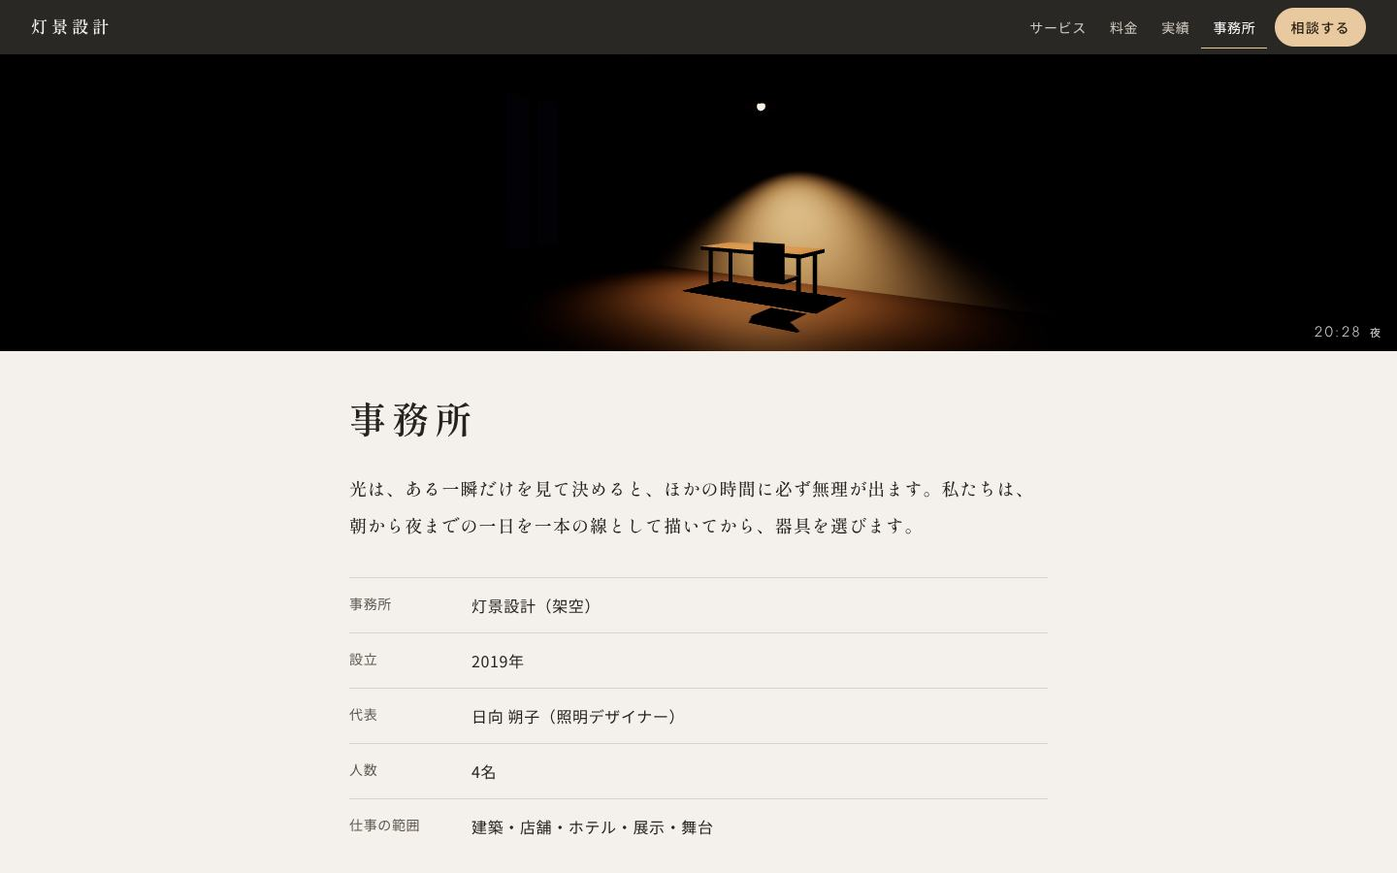
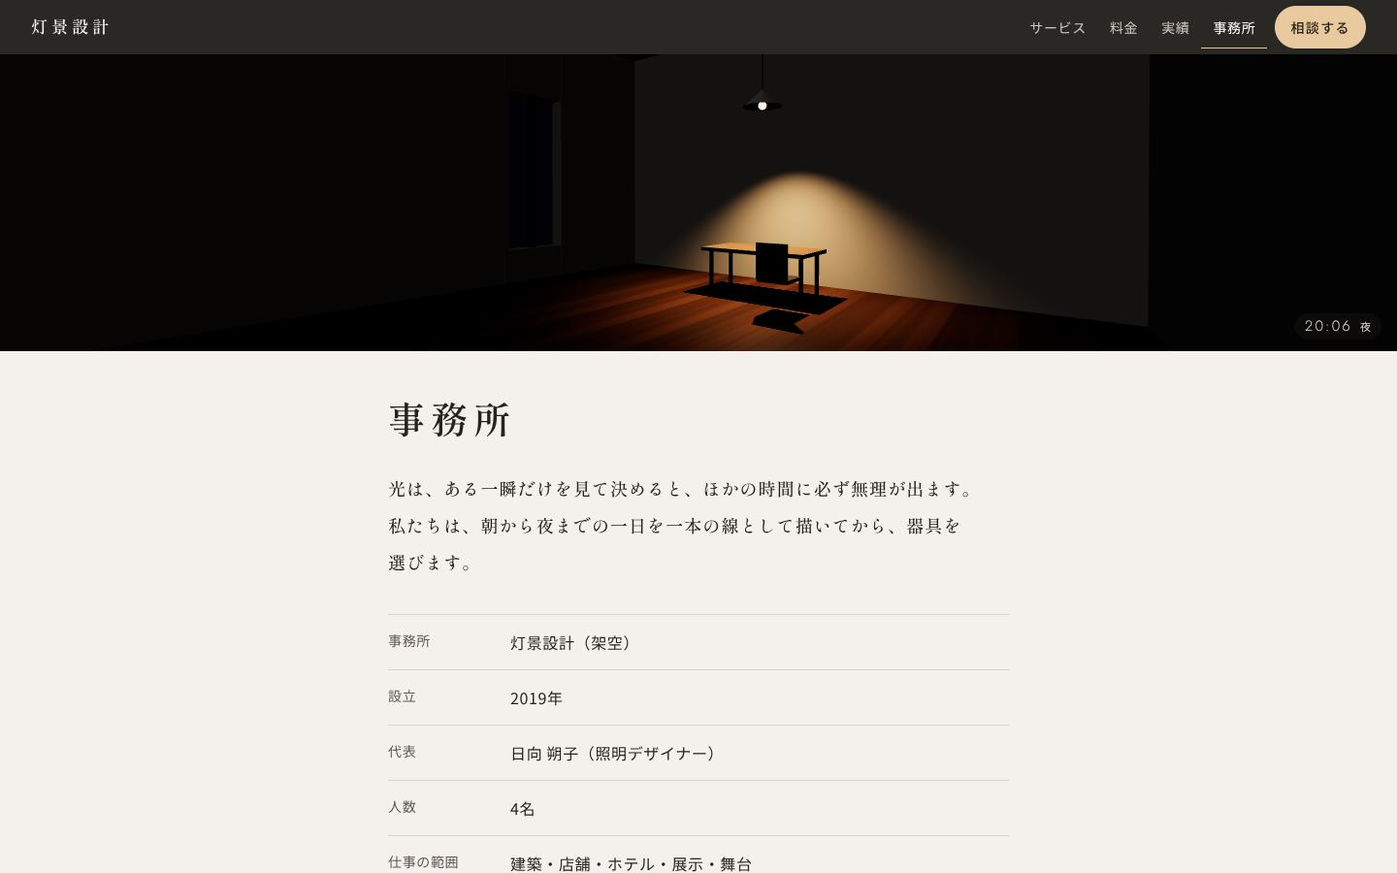
P010：審査1回目の指摘を反映（facts にない「2営業日」を削除、壁の継ぎ目と影の範囲、夜の壁の光、木目の床と光の筋、映り込みを時刻で落とす、日の出と夕方を遅く流すトップの時刻送り、サービスの各項目へ直接、時計の下敷き、フォームの aria）
Claude-Session: https://claude.ai/code/session_01BwmUGTgfPEj1Tu5124aDtq

diff --git a/studio/projects/P010-brand/site/app.js b/studio/projects/P010-brand/site/app.js
@@ -3,10 +3,10 @@ import { F } from './data.js';
 const $ = id => document.getElementById(id);
 const el = (t, c, x) => { const e = document.createElement(t); if (c) e.className = c; if (x != null) e.textContent = x; return e; };
 const reduce = matchMedia('(prefers-reduced-motion: reduce)').matches;
-$('logo').textContent = F.name; $('kind').textContent = `${F.kind}　${F.en}`; $('h-top').textContent = F.tagline; $('lead').textContent = F.lead;
+$('logo').textContent = F.name; $('kind').append(F.kind, el('span', 'en', F.en)); $('h-top').textContent = F.tagline; $('lead').textContent = F.lead;
 $('fname').textContent = `${F.name}　${F.kind}`; $('discl').textContent = F.disclosure;
 for (const s of F.services) {
-  const li = el('li'), a = el('a'); a.href = `#/services`; a.dataset.s = s.id; a.append(el('b', null, s.name), el('span', null, '詳しく')); li.append(a); $('svc-mini').append(li);
+  const li = el('li'), a = el('a'); a.href = `#/services/${s.id}`; a.append(el('b', null, s.name), el('span', null, '詳しく')); li.append(a); $('svc-mini').append(li);
   const d = el('article', 'svc'); d.id = `svc-${s.id}`; const ol = el('ol', 'steps'); for (const t of s.steps) ol.append(el('li', null, t)); d.append(el('h2', null, s.name), el('p', null, s.text), ol); $('svc').append(d);
 }
 for (const p of F.prices) { const li = el('li'), row = el('div', 'row'), pr = el('span', 'p', p.price); pr.append(el('small', null, p.unit)); row.append(el('b', null, p.name), pr); li.append(row, el('p', null, p.note)); $('price').append(li); }
@@ -21,7 +21,7 @@ $('form').addEventListener('submit', e => {
   for (const [id, label] of [['f-name', 'お名前'], ['f-mail', 'メールアドレス'], ['f-body', '内容']]) { const x = $(id), ng = !x.value.trim() || (id === 'f-mail' && !/^[^@\s]+@[^@\s]+\.[^@\s]+$/.test(x.value)); x.setAttribute('aria-invalid', String(ng)); if (ng) bad.push([id, label]); }
   $('f-err').textContent = bad.length ? `${bad.map(b => b[1]).join('・')}を確かめてください` : ''; $('f-msg').textContent = '';
   if (bad.length) { $(bad[0][0]).focus(); return; }
-  $('f-msg').textContent = '見本のため送信していません。実際のサイトでは、この内容が事務所に届きます。';
+  $('f-msg').textContent = '見本のため送信していません。実際のサイトでは、この内容が事務所に届きます。'; $('f-msg').focus();
 });
 
 // ページ（#/top・#/services・#/price・#/works・#/about・#/contact）。各ページの部屋の時刻
@@ -29,11 +29,13 @@ const PAGES = { top: ['トップ', null], services: ['サービス', 9.5], price
 let page = null, onPage = () => {};
 function route(first) {
   const m = location.hash.match(/^#\/(\w+)/), p = m && PAGES[m[1]] ? m[1] : 'top';
-  if (p === page) return; page = p; document.body.dataset.page = p;
+  const sub = location.hash.split('/')[2];
+  if (p === page) { if (sub) document.getElementById(`svc-${sub}`)?.scrollIntoView({ behavior: reduce ? 'instant' : 'smooth' }); return; } page = p; document.body.dataset.page = p;
   document.querySelectorAll('.page').forEach(s => { const on = s.dataset.page === p; s.hidden = !on; s.classList.toggle('enter', on && !first); });
   document.querySelectorAll('[data-p]').forEach(a => a.dataset.p === p ? a.setAttribute('aria-current', 'page') : a.removeAttribute('aria-current'));
   document.title = p === 'top' ? `${F.name}｜${F.kind}（架空の見本）` : `${PAGES[p][0]}｜${F.name}（架空の見本）`;
   if (!first) { scrollTo(0, 0); document.querySelector(`.page[data-page="${p}"] h1`).focus({ preventScroll: true }); }
+  if (sub && document.getElementById(`svc-${sub}`)) setTimeout(() => document.getElementById(`svc-${sub}`).scrollIntoView({ behavior: reduce ? 'instant' : 'smooth' }), 120);   // サービスの各項目へ直接（2タップ目で目的の内容に届く）
   onPage(p);
 }
 addEventListener('hashchange', () => route(false)); route(true);
@@ -44,22 +46,27 @@ addEventListener('hashchange', () => route(false)); route(true);
   const r = new THREE.WebGLRenderer({ canvas: cv, antialias: true }); r.setPixelRatio(Math.min(innerWidth < 700 ? 1.5 : 2, devicePixelRatio));
   r.shadowMap.enabled = true; r.shadowMap.type = THREE.PCFSoftShadowMap; r.toneMapping = THREE.ACESFilmicToneMapping; r.toneMappingExposure = 1.2;
   const scene = new THREE.Scene(), cam = new THREE.PerspectiveCamera(38, 1, .1, 60);
+  try { const { RoomEnvironment } = await import('three/addons/environments/RoomEnvironment.js'); scene.environment = new THREE.PMREMGenerator(r).fromScene(new RoomEnvironment(), .04).texture; } catch {}
   const mat = (c, ro) => new THREE.MeshStandardMaterial({ color: c, roughness: ro });
   const add = (g, m, x, y, z) => { const o = new THREE.Mesh(g, m); o.position.set(x, y, z); o.castShadow = o.receiveShadow = true; scene.add(o); return o; };
   // 部屋：奥の壁と床、左の壁に縦長の窓
-  const plaster = mat(0xd9d2c7, .95), wood = mat(0x6b5442, .6);
+  const plaster = mat(0xd9d2c7, .92), wood = mat(0x6b5442, .35);
+  // 床の木目（板の継ぎ目と色むら）をキャンバスで描く
+  const wc = document.createElement('canvas'); wc.width = 512; wc.height = 512; const g = wc.getContext('2d');
+  for (let i = 0; i < 16; i++) { const v = 150 + Math.random() * 50; g.fillStyle = `rgb(${v},${v * .8 | 0},${v * .62 | 0})`; g.fillRect(i * 32, 0, 32, 512); g.fillStyle = 'rgba(30,20,10,.35)'; g.fillRect(i * 32, 0, 1, 512); for (let k = 0; k < 40; k++) { g.fillStyle = `rgba(60,40,20,${Math.random() * .12})`; g.fillRect(i * 32 + Math.random() * 32, 0, 1, 512); } }
+  const wt = new THREE.CanvasTexture(wc); wt.colorSpace = THREE.SRGBColorSpace; wt.wrapS = wt.wrapT = THREE.RepeatWrapping; wt.repeat.set(3, 3); wood.map = wt; wood.color.set(0x9a8068);
   add(new THREE.BoxGeometry(12, 5.2, .2), plaster, 1, 2.5, -3);
   add(new THREE.BoxGeometry(.2, 5.2, 12), plaster, 5.6, 2.5, 2.5);   // 右の壁（カメラの背後まで部屋を閉じる）
   add(new THREE.BoxGeometry(12, 5.2, .2), plaster, 1, 2.5, 8.4);
   add(new THREE.BoxGeometry(12, .1, 12), wood, 1, -.05, 2.5);
   // 左の壁（窓の穴を残して4枚で）
   const wx = -3.5, wz0 = -3, wz1 = 4;
-  add(new THREE.BoxGeometry(.2, 5, 2.2), plaster, wx, 2.5, -1.9);   // 窓の奥側
-  add(new THREE.BoxGeometry(.2, 5.2, 8.0), plaster, wx, 2.5, 4.4);    // 窓の手前側
-  add(new THREE.BoxGeometry(.2, .6, 1.2), plaster, wx, .3, -.2);     // 窓の下
-  add(new THREE.BoxGeometry(.2, 1.4, 1.2), plaster, wx, 4.3, -.2);   // 窓の上
+  add(new THREE.BoxGeometry(.3, 5.4, 2.26), plaster, wx, 2.5, -1.92);   // 窓の奥側（隣の板と少し重ねて、継ぎ目から光を漏らさない）
+  add(new THREE.BoxGeometry(.3, 5.4, 8.06), plaster, wx, 2.5, 4.37);    // 窓の手前側
+  add(new THREE.BoxGeometry(.3, .62, 1.24), plaster, wx, .3, -.2);     // 窓の下
+  add(new THREE.BoxGeometry(.3, 1.42, 1.24), plaster, wx, 4.3, -.2);   // 窓の上
   add(new THREE.BoxGeometry(.24, 3.0, .05), mat(0x3a332c, .5), wx, 2.1, -.2);   // 窓の縦の桟
-  add(new THREE.BoxGeometry(12, .2, 12), plaster, 1, 5.1, 2.5);        // 天井
+  add(new THREE.BoxGeometry(12.4, .3, 12.4), plaster, 1, 5.1, 2.6);        // 天井
   // 机・椅子・ペンダント
   add(new THREE.BoxGeometry(1.8, .06, .9), mat(0x8a6a4e, .5), .9, .74, -1.6); for (const [x, z] of [[.1, -1.9], [1.7, -1.9], [.1, -1.3], [1.7, -1.3]]) add(new THREE.BoxGeometry(.05, .72, .05), mat(0x3b2e24, .6), x, .36, z);
   const chair = add(new THREE.BoxGeometry(.45, .05, .45), mat(0x4a3a2c, .6), 1.6, .46, -.8); add(new THREE.BoxGeometry(.45, .5, .05), mat(0x4a3a2c, .6), 1.6, .72, -.58);
@@ -67,10 +74,10 @@ addEventListener('hashchange', () => route(false)); route(true);
   const shade = add(new THREE.ConeGeometry(.32, .28, 48, 1, true), new THREE.MeshStandardMaterial({ color: 0xe9e1d4, roughness: .7, side: THREE.DoubleSide }), .9, 3.2, -1.6);
   const bulbM = new THREE.MeshStandardMaterial({ color: 0, emissive: 0xffc98a, emissiveIntensity: 0 }); add(new THREE.SphereGeometry(.07, 16, 12), bulbM, .9, 3.08, -1.6).castShadow = false;
   const pend = new THREE.SpotLight(0xffc98a, 0, 8, .95, .8, 1.6); pend.position.set(.9, 3.05, -1.6); pend.target.position.set(.9, 0, -1.6); pend.castShadow = true; pend.shadow.mapSize.set(1024, 1024); scene.add(pend, pend.target);
-  const wallWash = new THREE.SpotLight(0xffb978, 0, 8, .6, 1, 1.5); wallWash.position.set(3.2, .1, -2.2); wallWash.target.position.set(3.2, 3, -2.9); scene.add(wallWash.target);   // 夜、奥の壁の右を下から柔らかく scene.add(wallWash);
+  const wallWash = new THREE.SpotLight(0xffb978, 0, 8, .6, 1, 1.5); wallWash.position.set(3.2, .1, -2.2); wallWash.target.position.set(3.2, 3, -2.9); scene.add(wallWash, wallWash.target);   // 夜、奥の壁の右を下から柔らかく
   // 太陽（窓の外の左から）と空の明かり
-  const sun = new THREE.DirectionalLight(0xffffff, 0); sun.castShadow = true; sun.shadow.mapSize.set(2048, 2048); sun.shadow.bias = -.0004; sun.shadow.normalBias = .02;
-  Object.assign(sun.shadow.camera, { left: -6, right: 6, top: 6, bottom: -6, near: .5, far: 30 }); sun.target.position.set(.5, 1.2, -1.5); scene.add(sun, sun.target);
+  const sun = new THREE.DirectionalLight(0xffffff, 0); sun.castShadow = true; sun.shadow.mapSize.set(2048, 2048); sun.shadow.bias = -.0004; sun.shadow.normalBias = .04;
+  Object.assign(sun.shadow.camera, { left: -9, right: 9, top: 9, bottom: -9, near: .5, far: 40 }); sun.target.position.set(.5, 1.2, -1.5); scene.add(sun, sun.target);
   const sky = new THREE.HemisphereLight(0xdfe4ea, 0x5a4636, 0); scene.add(sky);
   const C = (a, b, t) => new THREE.Color(a).lerp(new THREE.Color(b), t);
   const sm = (a, b, x) => { const t = Math.min(1, Math.max(0, (x - a) / (b - a))); return t * t * (3 - 2 * t); };
@@ -81,28 +88,41 @@ addEventListener('hashchange', () => route(false)); route(true);
     sun.position.set(-10, 1.2 + 7 * Math.sin(alt), 5.5 - u * 9);   // 朝は左手前から奥の壁へ、夕方は左奥から手前の床へ
     const warm = 1 - Math.sin(Math.PI * Math.min(1, Math.max(0, u)));
     sun.color.copy(C(0xfff4e6, 0xffa25a, warm * .9)); sun.intensity = day * 5.2;
-    sky.intensity = .35 + day * 1.3; sky.color.copy(C(0xdfe4ea, 0xffd2b0, warm * .5)); if (h > 18.5 || h < 5.5) { sky.color.set(0x2a3550); sky.intensity = .18; }
+    for (const m of envMats) m.envMapIntensity = .02 + day * .3;   // 環境の映り込みも、夜は落とす（r160 は材質ごとに設定する）
+    sky.intensity = .15 + day * 1.0; sky.color.copy(C(0xdfe4ea, 0xffd2b0, warm * .5)); if (h > 18.5 || h < 5.5) { sky.color.set(0x2a3550); sky.intensity = .18; }
     const night = sm(16.8, 18.6, h) + (h < 6 ? 1 : 0);
-    pend.intensity = Math.min(1, night) * 28; bulbM.emissiveIntensity = Math.min(1, night) * 3; wallWash.intensity = Math.min(1, sm(18.5, 20, h)) * 6;
+    const on = h >= 17.1 || h < 6 ? 1 : 0; pend.intensity = on * 28; bulbM.emissiveIntensity = on * 3;   // ペンダントは夕方に一度で点く（光が点く瞬間を見せ場に） wallWash.intensity = Math.min(1, sm(18.5, 20, h)) * 6;
     r.setClearColor(day > .05 ? C(0x9fb8d8, 0xe8a070, warm).getHex() : 0x0b0d14, 1);
     const hh = Math.floor(h), mm = Math.floor((h - hh) * 60), c = $('clock'); c.textContent = `${String(hh).padStart(2, '0')}:${String(mm).padStart(2, '0')}`; c.append(el('small', null, h < 10 ? '朝' : h < 15 ? '昼' : h < 18.5 ? '夕方' : '夜'));
   }
+  // 窓から差す光の筋（加算の板を3枚。太陽の向きにそろえる）
+  const shaftM = new THREE.MeshBasicMaterial({ color: 0xfff1dc, transparent: true, opacity: 0, blending: THREE.AdditiveBlending, depthWrite: false, side: THREE.DoubleSide });
+  const shafts = [0, 1, 2].map(k => { const m = new THREE.Mesh(new THREE.PlaneGeometry(1.1 - k * .25, 7), shaftM); m.position.set(wx, 2.1, -.2); scene.add(m); return m; });
+  const dirV = new THREE.Vector3();
   // 窓の外の空（明るさで時刻が伝わる）
   const skyPlane = new THREE.Mesh(new THREE.PlaneGeometry(10, 8), new THREE.MeshBasicMaterial({ color: 0xbfd2ff })); skyPlane.position.set(-5, 2.5, -.2); skyPlane.rotation.y = Math.PI / 2; scene.add(skyPlane);
+  // トップの時刻送り：6〜8時と17〜19時は1時間4秒、ほかは1時間1.2秒。22時で3秒止めて、窓の外ごと暗転して6時に戻る
+  const SEG = [[6, 8, 4], [8, 17, 1.2], [17, 19, 4], [19, 22, 1.2]];
+  const LOOP = SEG.reduce((s, [a, b, k]) => s + (b - a) * k, 0) + 3;
+  function loopHour(sec) { let t = sec % LOOP; for (const [a, b, k] of SEG) { const d = (b - a) * k; if (t < d) return a + t / k; t -= d; } return 22; }
+  const envMats = []; scene.traverse(o => { if (o.material && 'envMapIntensity' in o.material) envMats.push(o.material); });
   let target = 9, cur = 9, t0 = performance.now();
   onPage = p => { if (PAGES[p][1] != null) target = PAGES[p][1]; t0 = performance.now(); };
   onPage(page);
-  function fit() { const w = box.clientWidth, h = box.clientHeight; r.setSize(w, h, false); cam.aspect = w / h; cam.fov = w < h ? 58 : 38; cam.updateProjectionMatrix(); }
+  function fit() { const w = box.clientWidth, h = box.clientHeight; r.setSize(w, h, false); cam.aspect = w / h; cam.fov = w < h ? 52 : 38; cam.updateProjectionMatrix(); }
   new ResizeObserver(fit).observe(box); fit();
   let shown = false, last = performance.now();
   function frame(now) {
     const dt = Math.min(.05, (now - last) / 1000); last = now;
-    if (page === 'top') { cur = reduce ? 9 : 6.2 + (((now - t0) / 1000 / 30) % 1) * 16; }   // トップ：30秒で朝6時から夜10時まで
+    if (page === 'top') cur = reduce ? 9 : loopHour((now - t0) / 1000);   // トップ：朝6時から夜10時まで。日の出と夕方はゆっくり
     else cur += (target - cur) * (reduce ? 1 : 1 - Math.exp(-dt * 2.2));
     setTime(cur);
     skyPlane.material.color.copy(r.getClearColor(new THREE.Color()));
+    dirV.copy(sun.target.position).sub(sun.position).normalize();
+    shafts.forEach((m, k) => { m.position.set(wx, 2.1, -.2).addScaledVector(dirV, 3.4); m.lookAt(m.position.clone().add(new THREE.Vector3(0, 0, 1))); m.quaternion.setFromUnitVectors(new THREE.Vector3(0, 1, 0), dirV.clone().negate()); m.rotateY(k * .5); });
+    shaftM.opacity = .07 * sun.intensity / 5.2;
     const tall = cam.aspect < 1, sway = reduce ? 0 : Math.sin(now / 1000 * .08) * .25;
-    cam.position.set(4.2 + sway, 1.55, 4.6); if (tall) cam.position.set(4.6 + sway, 1.45, 7.6); cam.lookAt(-.4, 1.5, -1.6);
+    cam.position.set(4.2 + sway, 1.55, 4.6); if (tall) cam.position.set(4.6 + sway, 1.45, 7.6); cam.lookAt(-.4, tall ? 1.2 : 1.5, -1.6);
     r.render(scene, cam); if (!shown) { shown = true; cv.classList.add('ready'); }
     requestAnimationFrame(frame);
   }

diff --git a/studio/projects/P010-brand/site/index.html b/studio/projects/P010-brand/site/index.html
@@ -6,10 +6,10 @@
 <title>灯景設計｜照明設計事務所（架空の見本）</title>
 <meta name="description" content="架空の照明設計事務所・灯景設計のサイトの見本。光を朝から夜までの時間で設計する（天狼スタジオ制作）。">
 <link rel="preconnect" href="https://fonts.googleapis.com">
-<link id="fm" rel="stylesheet" href="https://fonts.googleapis.com/css2?family=Shippori+Mincho:wght@500;600&display=swap&text=0123456789%E3%80%80%E3%80%81%E3%80%82%E3%80%8E%E3%80%8F%E3%80%9C%E3%81%82%E3%81%84%E3%81%86%E3%81%88%E3%81%8A%E3%81%8B%E3%81%8C%E3%81%8D%E3%81%8F%E3%81%91%E3%81%93%E3%81%94%E3%81%95%E3%81%97%E3%81%98%E3%81%99%E3%81%9A%E3%81%9B%E3%81%9D%E3%81%9F%E3%81%A0%E3%81%A1%E3%81%A3%E3%81%A4%E3%81%A6%E3%81%A7%E3%81%A8%E3%81%AA%E3%81%AB%E3%81%AE%E3%81%AF%E3%81%B0%E3%81%B3%E3%81%B8%E3%81%B9%E3%81%BB%E3%81%BE%E3%81%BF%E3%82%81%E3%82%82%E3%82%86%E3%82%88%E3%82%89%E3%82%8A%E3%82%8B%E3%82%8C%E3%82%8F%E3%82%92%E3%82%93%E3%82%A2%E3%82%A3%E3%82%A4%E3%82%A6%E3%82%A7%E3%82%A9%E3%82%AA%E3%82%AB%E3%82%B5%E3%82%B6%E3%82%B7%E3%82%B8%E3%82%B9%E3%82%BF%E3%83%80%E3%83%81%E3%83%83%E3%83%86%E3%83%87%E3%83%88%E3%83%89%E3%83%8A%E3%83%93%E3%83%95%E3%83%96%E3%83%97%E3%83%9A%E3%83%9B%E3%83%9E%E3%83%A0%E3%83%A1%E3%83%A7%E3%83%A9%E3%83%AA%E3%83%AB%E3%83%AC%E3%83%B3%E3%83%BB%E3%83%BC%E4%B8%80%E4%B8%8A%E4%B8%8B%E4%B8%AD%E4%BA%8B%E4%BA%95%E4%BA%A4%E4%BA%BA%E4%BB%95%E4%BB%96%E4%BB%A3%E4%BB%A5%E4%BB%B6%E4%BC%9A%E4%BC%9D%E4%BD%8E%E4%BD%8F%E4%BD%9C%E4%BE%8B%E4%BF%A1%E4%BF%AE%E5%81%B4%E5%83%8F%E5%85%89%E5%85%A5%E5%85%AC%E5%85%B1%E5%85%B7%E5%86%85%E5%86%86%E5%86%99%E5%87%BA%E5%88%86%E5%88%87%E5%88%9D%E5%88%A5%E5%88%B6%E5%88%BB%E5%89%8D%E5%89%B2%E5%8A%87%E5%8A%A0%E5%8B%95%E5%8B%99%E5%8F%82%E5%8F%96%E5%8F%B0%E5%8F%B3%E5%90%84%E5%90%88%E5%90%8D%E5%90%91%E5%90%AB%E5%93%81%E5%95%86%E5%95%8F%E5%96%84%E5%96%B6%E5%99%A8%E5%9B%9E%E5%9B%B2%E5%9B%B3%E5%9C%A8%E5%9C%B0%E5%9D%82%E5%A0%B4%E5%A3%81%E5%A4%89%E5%A4%95%E5%A4%96%E5%A4%9C%E5%A4%A9%E5%A4%AA%E5%A5%A5%E5%AD%90%E5%AD%97%E5%AD%A3%E5%AE%85%E5%AE%89%E5%AE%9A%E5%AE%9F%E5%AE%A2%E5%AE%A4%E5%AE%B9%E5%B0%8F%E5%B1%8A%E5%B1%8B%E5%B1%95%E5%B7%A5%E5%B7%A6%E5%B8%AD%E5%B8%B8%E5%B9%B4%E5%BA%8A%E5%BA%97%E5%BA%A6%E5%BB%BA%E5%BC%95%E5%BD%93%E5%BE%8C%E5%BF%85%E6%84%8F%E6%89%80%E6%89%8B%E6%8B%85%E6%8F%8F%E6%94%B9%E6%95%B0%E6%95%B4%E6%96%87%E6%96%99%E6%96%B9%E6%97%A5%E6%98%8E%E6%98%A0%E6%98%BC%E6%99%82%E6%99%AF%E6%9B%B8%E6%9B%BF%E6%9C%80%E6%9C%94%E6%9C%9D%E6%9C%9F%E6%9C%AC%E6%9C%BA%E6%9D%90%E6%9E%9A%E6%9E%B6%E6%9F%94%E6%9F%BB%E6%A1%9F%E6%A4%85%E6%A4%9C%E6%A5%AD%E6%A8%A1%E6%A9%9F%E6%AE%8B%E6%AE%B5%E6%B1%BA%E6%B5%81%E6%B6%88%E6%B8%A1%E6%B8%A9%E6%B8%AF%E6%B9%96%E6%BC%94%E7%81%AF%E7%82%B9%E7%84%A1%E7%84%B6%E7%85%A7%E7%89%A9%E7%8B%BC%E7%8F%88%E7%8F%BE%E7%90%86%E7%90%B2%E7%94%A8%E7%94%BA%E7%94%BB%E7%95%94%E7%95%AA%E7%99%BA%E7%9A%84%E7%9B%AE%E7%9B%B8%E7%9C%9F%E7%9E%AC%E7%A2%BA%E7%A4%BA%E7%A7%81%E7%A7%92%E7%A7%BB%E7%A8%8E%E7%A8%AE%E7%A9%8D%E7%A9%B4%E7%A9%BA%E7%AA%93%E7%AB%8B%E7%AF%80%E7%AF%84%E7%AF%89%E7%B4%9B%E7%B4%A2%E7%B5%84%E7%B7%92%E7%B7%9A%E7%B8%A6%E7%B8%BE%E7%BE%8E%E8%80%83%E8%81%9E%E8%83%8C%E8%87%AA%E8%88%97%E8%88%9E%E8%89%B2%E8%8B%B1%E8%90%BD%E8%A1%93%E8%A1%A8%E8%A6%8B%E8%A6%8F%E8%A7%92%E8%A8%88%E8%A8%AD%E8%A9%A6%E8%A9%B1%E8%A9%B2%E8%A9%B3%E8%AA%8D%E8%AA%AD%E8%AA%BF%E8%AB%87%E8%B2%BB%E8%B6%B3%E8%B7%AF%E8%BB%B8%E8%BC%89%E8%BE%BC%E8%BF%91%E8%BF%94%E9%80%81%E9%80%94%E9%80%9A%E9%81%B8%E9%83%A8%E9%87%91%E9%95%B7%E9%96%89%E9%96%8B%E9%96%93%E9%99%BD%E9%9A%8E%E9%9A%9B%E9%9B%BB%E9%9D%A2%E9%A0%86%E9%A1%9E%E9%A4%A8%E9%A8%93%E9%AB%98%EF%BC%88%EF%BC%89%EF%BC%9A%EF%BD%9C">
+<link id="fm" rel="stylesheet" href="https://fonts.googleapis.com/css2?family=Shippori+Mincho:wght@500;600&display=swap&text=0123456789%E3%80%80%E3%80%81%E3%80%82%E3%80%8E%E3%80%8F%E3%80%9C%E3%81%82%E3%81%84%E3%81%86%E3%81%88%E3%81%8A%E3%81%8B%E3%81%8C%E3%81%8D%E3%81%8E%E3%81%8F%E3%81%91%E3%81%93%E3%81%94%E3%81%95%E3%81%97%E3%81%98%E3%81%99%E3%81%9A%E3%81%9B%E3%81%9D%E3%81%9F%E3%81%A0%E3%81%A1%E3%81%A3%E3%81%A4%E3%81%A6%E3%81%A7%E3%81%A8%E3%81%AA%E3%81%AB%E3%81%AD%E3%81%AE%E3%81%AF%E3%81%B0%E3%81%B3%E3%81%B8%E3%81%B9%E3%81%BB%E3%81%BE%E3%81%BF%E3%82%80%E3%82%81%E3%82%82%E3%82%86%E3%82%88%E3%82%89%E3%82%8A%E3%82%8B%E3%82%8C%E3%82%8D%E3%82%8F%E3%82%92%E3%82%93%E3%82%A2%E3%82%A3%E3%82%A4%E3%82%A6%E3%82%A7%E3%82%A9%E3%82%AA%E3%82%AB%E3%82%AD%E3%82%B5%E3%82%B6%E3%82%B7%E3%82%B8%E3%82%B9%E3%82%BF%E3%83%80%E3%83%81%E3%83%83%E3%83%86%E3%83%87%E3%83%88%E3%83%89%E3%83%8A%E3%83%90%E3%83%93%E3%83%95%E3%83%96%E3%83%97%E3%83%9A%E3%83%9B%E3%83%9E%E3%83%A0%E3%83%A1%E3%83%A3%E3%83%A7%E3%83%A9%E3%83%AA%E3%83%AB%E3%83%AC%E3%83%B3%E3%83%BB%E3%83%BC%E4%B8%80%E4%B8%8A%E4%B8%8B%E4%B8%AD%E4%BA%8B%E4%BA%95%E4%BA%A4%E4%BA%BA%E4%BB%95%E4%BB%96%E4%BB%A3%E4%BB%B6%E4%BC%9A%E4%BC%9D%E4%BD%8E%E4%BD%8F%E4%BD%9C%E4%BE%8B%E4%BF%A1%E4%BF%AE%E5%81%B4%E5%83%8F%E5%85%89%E5%85%A5%E5%85%AC%E5%85%B1%E5%85%B7%E5%86%85%E5%86%86%E5%86%99%E5%87%BA%E5%88%86%E5%88%87%E5%88%9D%E5%88%A5%E5%88%B6%E5%88%BB%E5%89%8D%E5%89%B2%E5%8A%87%E5%8A%A0%E5%8B%95%E5%8B%99%E5%8F%82%E5%8F%96%E5%8F%B0%E5%8F%B3%E5%90%84%E5%90%88%E5%90%8D%E5%90%91%E5%90%AB%E5%93%81%E5%95%86%E5%95%8F%E5%96%84%E5%96%B6%E5%99%A8%E5%9B%9E%E5%9B%B2%E5%9B%B3%E5%9C%A8%E5%9C%B0%E5%9D%82%E5%A0%B4%E5%A2%83%E5%A3%81%E5%A4%89%E5%A4%95%E5%A4%96%E5%A4%9C%E5%A4%A9%E5%A4%AA%E5%A5%A5%E5%AD%90%E5%AD%97%E5%AD%A3%E5%AE%85%E5%AE%89%E5%AE%9A%E5%AE%9F%E5%AE%A2%E5%AE%A4%E5%AE%B9%E5%B0%8F%E5%B0%91%E5%B1%8A%E5%B1%8B%E5%B1%95%E5%B7%A5%E5%B7%A6%E5%B7%AE%E5%B8%AD%E5%B8%B8%E5%B9%B4%E5%BA%8A%E5%BA%97%E5%BA%A6%E5%BB%BA%E5%BC%95%E5%BD%93%E5%BE%8C%E5%BF%85%E6%84%8F%E6%88%BB%E6%89%80%E6%89%8B%E6%8B%85%E6%8E%A5%E6%8F%8F%E6%94%B9%E6%95%B0%E6%95%B4%E6%96%87%E6%96%99%E6%96%B9%E6%97%A5%E6%98%8E%E6%98%A0%E6%98%BC%E6%99%82%E6%99%AF%E6%9A%97%E6%9B%B8%E6%9B%BF%E6%9C%80%E6%9C%94%E6%9C%9D%E6%9C%9F%E6%9C%A8%E6%9C%AC%E6%9C%BA%E6%9D%90%E6%9D%BF%E6%9E%9A%E6%9E%B6%E6%9F%94%E6%9F%BB%E6%A1%9F%E6%A4%85%E6%A4%9C%E6%A5%AD%E6%A8%A1%E6%A9%9F%E6%AD%A2%E6%AE%8B%E6%AE%B5%E6%B1%BA%E6%B5%81%E6%B6%88%E6%B8%A1%E6%B8%A9%E6%B8%AF%E6%B9%96%E6%BC%8F%E6%BC%94%E7%81%AF%E7%82%B9%E7%84%A1%E7%84%B6%E7%85%A7%E7%89%A9%E7%8B%BC%E7%8F%88%E7%8F%BE%E7%90%86%E7%90%B2%E7%92%B0%E7%94%A8%E7%94%BA%E7%94%BB%E7%95%94%E7%95%AA%E7%99%BA%E7%9A%84%E7%9B%AE%E7%9B%B4%E7%9B%B8%E7%9C%9F%E7%9E%AC%E7%A2%BA%E7%A4%BA%E7%A7%81%E7%A7%92%E7%A7%BB%E7%A8%8E%E7%A8%AE%E7%A9%8D%E7%A9%B4%E7%A9%BA%E7%AA%93%E7%AB%8B%E7%AD%8B%E7%AE%97%E7%AF%80%E7%AF%84%E7%AF%89%E7%B4%9B%E7%B4%A2%E7%B5%84%E7%B6%99%E7%B7%92%E7%B7%9A%E7%B8%A6%E7%B8%BE%E7%BE%8E%E8%80%83%E8%81%9E%E8%83%8C%E8%87%AA%E8%88%97%E8%88%9E%E8%89%B2%E8%8B%B1%E8%90%BD%E8%A1%93%E8%A1%A8%E8%A6%8B%E8%A6%8F%E8%A7%92%E8%A8%88%E8%A8%AD%E8%A9%A6%E8%A9%B1%E8%A9%B2%E8%A9%B3%E8%AA%8D%E8%AA%AD%E8%AA%BF%E8%AB%87%E8%B2%BB%E8%B3%AA%E8%B6%B3%E8%B7%AF%E8%BB%A2%E8%BB%B8%E8%BC%89%E8%BE%BC%E8%BF%91%E8%BF%94%E9%80%81%E9%80%94%E9%80%9A%E9%81%B8%E9%83%A8%E9%87%8D%E9%87%91%E9%95%B7%E9%96%89%E9%96%8B%E9%96%93%E9%99%BD%E9%9A%8E%E9%9A%9B%E9%9A%A3%E9%9B%BB%E9%9D%A2%E9%A0%85%E9%A0%86%E9%A1%9E%E9%A4%A8%E9%A8%93%E9%AB%98%EF%BC%88%EF%BC%89%EF%BC%9A%EF%BD%9C">
 <link rel="stylesheet" href="https://fonts.googleapis.com/css2?family=Noto+Sans+JP:wght@400;500&family=Jost:wght@300;400&display=swap">
 <link rel="stylesheet" href="style.css">
-<script type="importmap">{"imports":{"three":"https://cdn.jsdelivr.net/npm/three@0.160.0/build/three.module.js"}}</script>
+<script type="importmap">{"imports":{"three":"https://cdn.jsdelivr.net/npm/three@0.160.0/build/three.module.js","three/addons/":"https://cdn.jsdelivr.net/npm/three@0.160.0/examples/jsm/"}}</script>
 </head>
 <body data-page="top">
 <a class="skip" href="#main">本文へ移動</a>
@@ -53,15 +53,15 @@
   </section>
   <section class="page" data-page="contact" aria-labelledby="h-contact" hidden>
     <h1 id="h-contact" tabindex="-1">お問い合わせ</h1>
-    <p class="note">内容をお送りください。2営業日以内にお返事します（見本のため送信はされません）。</p>
+    <p class="note">内容をお送りください（見本のため送信はされません）。</p>
     <form id="form" novalidate>
       <label>ご相談の種類<select id="f-kind"></select></label>
-      <label>お名前<input id="f-name" autocomplete="name"></label>
-      <label>メールアドレス<input id="f-mail" type="email" autocomplete="email"></label>
-      <label>内容<textarea id="f-body" rows="6"></textarea></label>
+      <label>お名前<input id="f-name" autocomplete="name" required aria-required="true" aria-describedby="f-err"></label>
+      <label>メールアドレス<input id="f-mail" type="email" autocomplete="email" required aria-required="true" aria-describedby="f-err"></label>
+      <label>内容<textarea id="f-body" rows="6" required aria-required="true" aria-describedby="f-err"></textarea></label>
       <p class="err" id="f-err" role="alert"></p>
       <button class="btn" type="submit">送る（見本）</button>
-      <p class="done" id="f-msg" role="status"></p>
+      <p class="done" id="f-msg" role="status" tabindex="-1"></p>
     </form>
   </section>
 </main>

diff --git a/studio/projects/P010-brand/site/style.css b/studio/projects/P010-brand/site/style.css
@@ -34,16 +34,18 @@ h1:focus { outline: none; }
 body:not([data-page="top"]) .hero { height: 34svh; min-height: 220px; }
 .hero canvas { position: absolute; inset: 0; width: 100%; height: 100%; display: block; opacity: 0; transition: opacity .8s; }
 .hero canvas.ready { opacity: 1; }
-.clock { position: absolute; right: 16px; bottom: 12px; margin: 0; font: 300 15px/1 var(--num); letter-spacing: .14em; color: rgba(255, 255, 255, .85); font-variant-numeric: tabular-nums; text-shadow: 0 0 8px rgba(0, 0, 0, .6); }
+.clock { position: absolute; right: 16px; bottom: 12px; margin: 0; padding: 6px 10px; border-radius: 14px; background: rgba(20, 18, 16, .55); font: 300 15px/1 var(--num); letter-spacing: .14em; color: rgba(255, 255, 255, .85); font-variant-numeric: tabular-nums; text-shadow: 0 0 8px rgba(0, 0, 0, .6); }
 .clock small { font: 400 11px/1 var(--sans); margin-left: 8px; letter-spacing: .1em; }
 
-main { max-width: 760px; margin: 0 auto; padding: 0 20px 40px; }
+main { max-width: 680px; margin: 0 auto; padding: 0 20px 40px; }
 .page[hidden] { display: none; }
 .page.enter > * { animation: up .6s cubic-bezier(.2, .7, .2, 1) both; }
 .page.enter > :nth-child(2) { animation-delay: .06s; } .page.enter > :nth-child(3) { animation-delay: .12s; }
 @keyframes up { from { opacity: 0; transform: translateY(12px); } }
 .page > h1 { margin: 48px 0 28px; font: 600 clamp(28px, 7vw, 38px)/1.3 var(--mincho); letter-spacing: .16em; }
 .intro { padding: 44px 0 8px; }
+.kind .en { display: block; font: 300 12px/1.6 var(--num); letter-spacing: .16em; }
+.svc { scroll-margin-top: 112px; }
 .kind { margin: 0; font-size: 13px; color: var(--sub); letter-spacing: .2em; }
 .intro h1 { margin: 10px 0 0; font: 600 clamp(32px, 8.6vw, 54px)/1.35 var(--mincho); letter-spacing: .12em; }
 .lead { margin: 18px 0 0; font-size: 17px; line-height: 2.05; max-width: 32em; }
